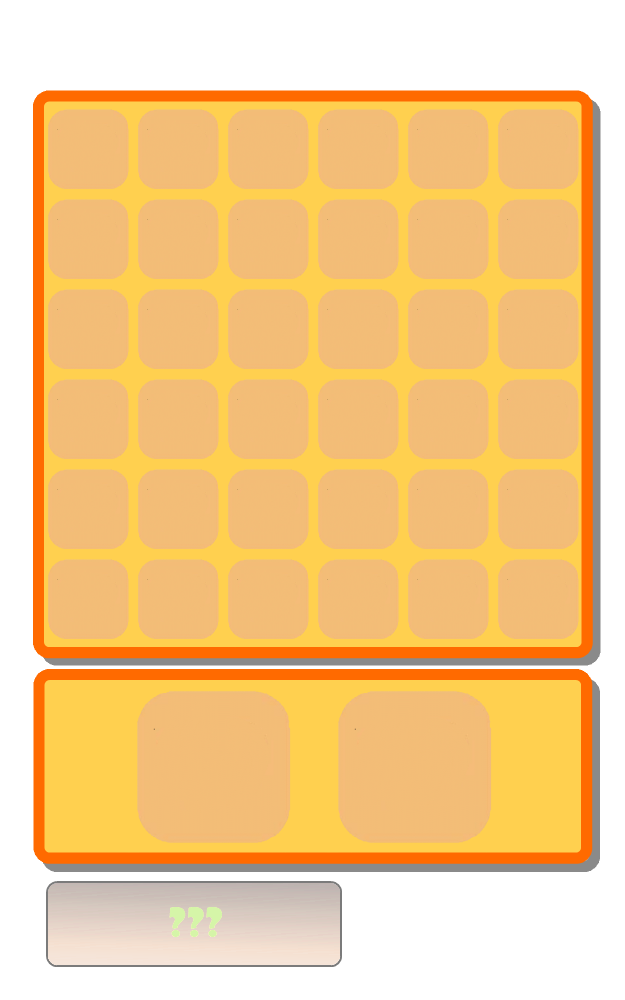
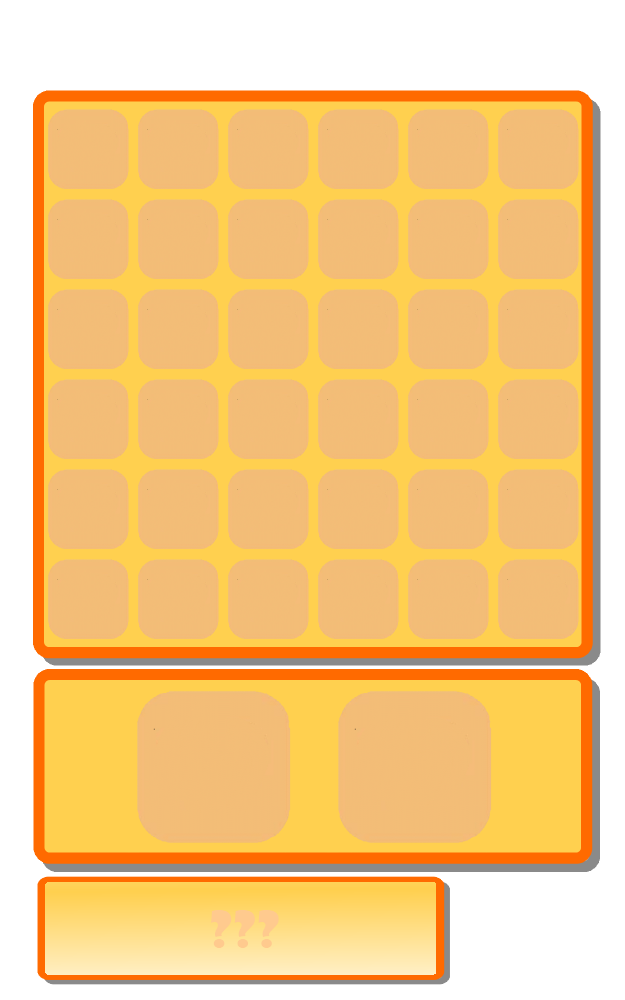
Hint Rectangle was added in GameScene

Changed region(s): [[0.0608, 0.868, 0.7296, 0.992]]

diff --git a/src/com/example/forestgame/GameScene.java b/src/com/example/forestgame/GameScene.java
@@ -745,22 +745,22 @@ public void setScores(int scores) {
     
     private void attachHelpSprites() {
 	
-	helpPart1 = new Sprite( MainActivity.TEXTURE_WIDTH*200/2000 
-		    , MainActivity.TEXTURE_HEIGHT*1770/2000
+	helpPart1 = new Sprite( MainActivity.TEXTURE_WIDTH*190/2000 
+		    , MainActivity.TEXTURE_HEIGHT*1780/2000
 		    , MainActivity.TEXTURE_WIDTH/8
 		    , MainActivity.TEXTURE_HEIGHT/13
 		    , MainActivity.mainActivity.storage.getTexture(helpTextureName1)
 		    , MainActivity.mainActivity.getVertexBufferObjectManager());
 	
-	helpPart2 = new Sprite( MainActivity.TEXTURE_WIDTH*500/2000 
-		    , MainActivity.TEXTURE_HEIGHT*1770/2000
+	helpPart2 = new Sprite( MainActivity.TEXTURE_WIDTH*490/2000 
+		    , MainActivity.TEXTURE_HEIGHT*1780/2000
 		    , MainActivity.TEXTURE_WIDTH/8
 		    , MainActivity.TEXTURE_HEIGHT/13
 		    , MainActivity.mainActivity.storage.getTexture(helpTextureName2)
 		    , MainActivity.mainActivity.getVertexBufferObjectManager());
 	
-	helpPart3 = new Sprite( MainActivity.TEXTURE_WIDTH*800/2000 
-		    , MainActivity.TEXTURE_HEIGHT*1770/2000
+	helpPart3 = new Sprite( MainActivity.TEXTURE_WIDTH*790/2000 
+		    , MainActivity.TEXTURE_HEIGHT*1780/2000
 		    , MainActivity.TEXTURE_WIDTH/8
 		    , MainActivity.TEXTURE_HEIGHT/13
 		    , MainActivity.mainActivity.storage.getTexture(helpTextureName3)
@@ -772,8 +772,8 @@ public void setScores(int scores) {
 	
 	if (helpTextureName4 != null) {
 	    
-	    helpPart4 = new Sprite( MainActivity.TEXTURE_WIDTH*1100/2000 
-		    , MainActivity.TEXTURE_HEIGHT*1770/2000
+	    helpPart4 = new Sprite( MainActivity.TEXTURE_WIDTH*1090/2000 
+		    , MainActivity.TEXTURE_HEIGHT*1780/2000
 		    , MainActivity.TEXTURE_WIDTH/8
 		    , MainActivity.TEXTURE_HEIGHT/13
 		    , MainActivity.mainActivity.storage.getTexture(helpTextureName4)
